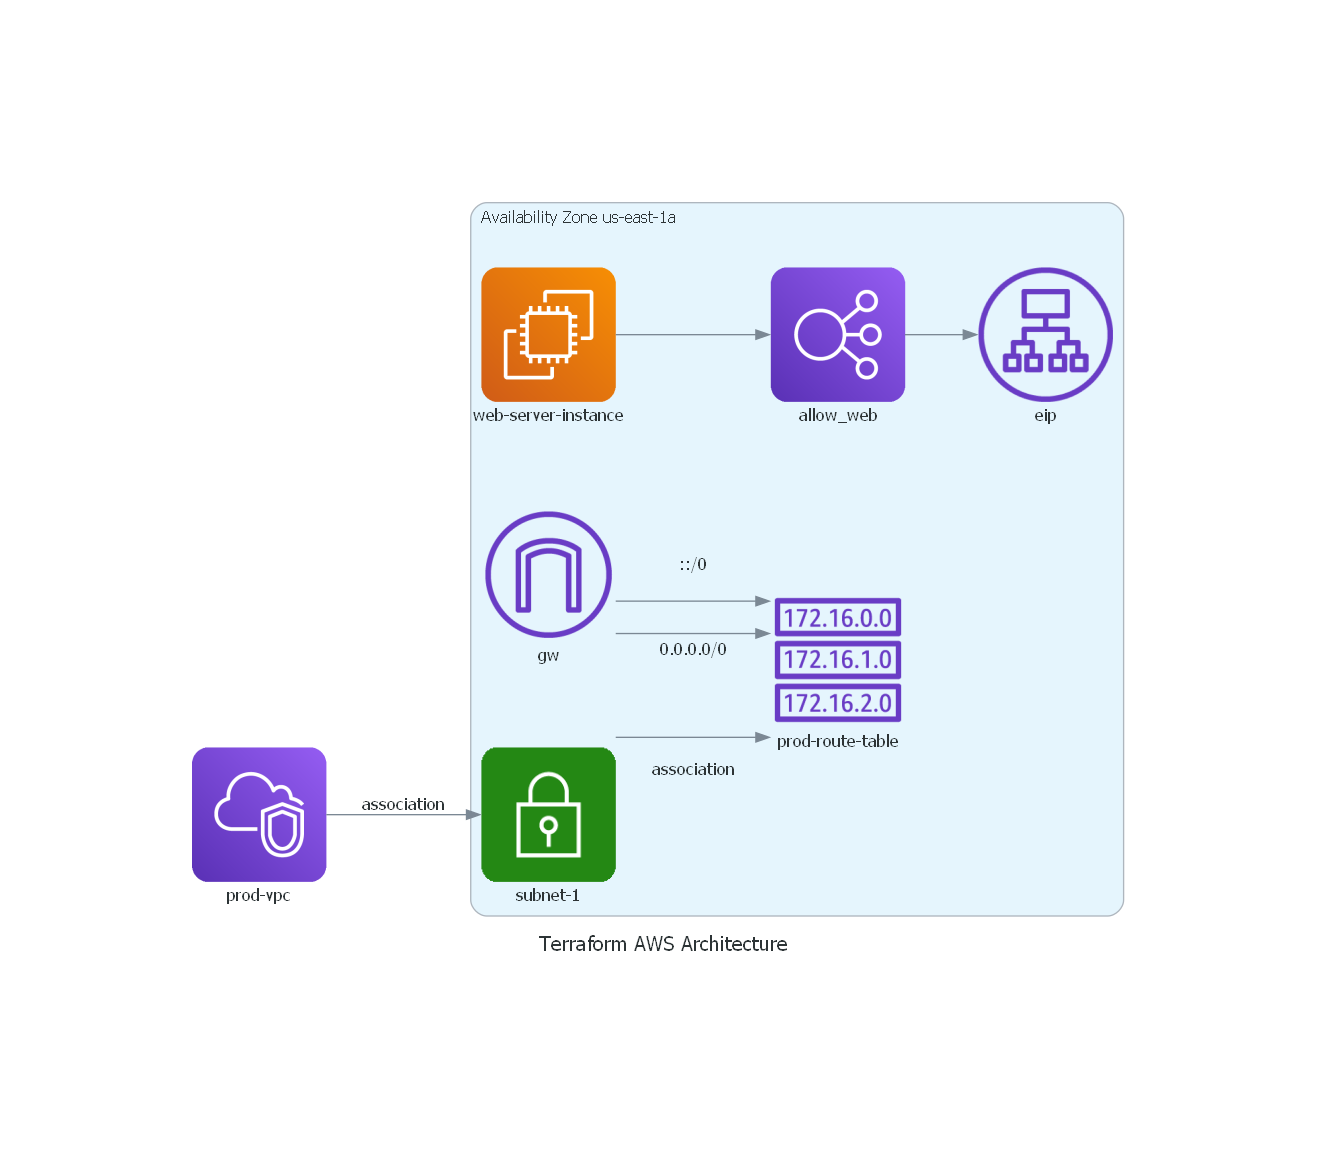
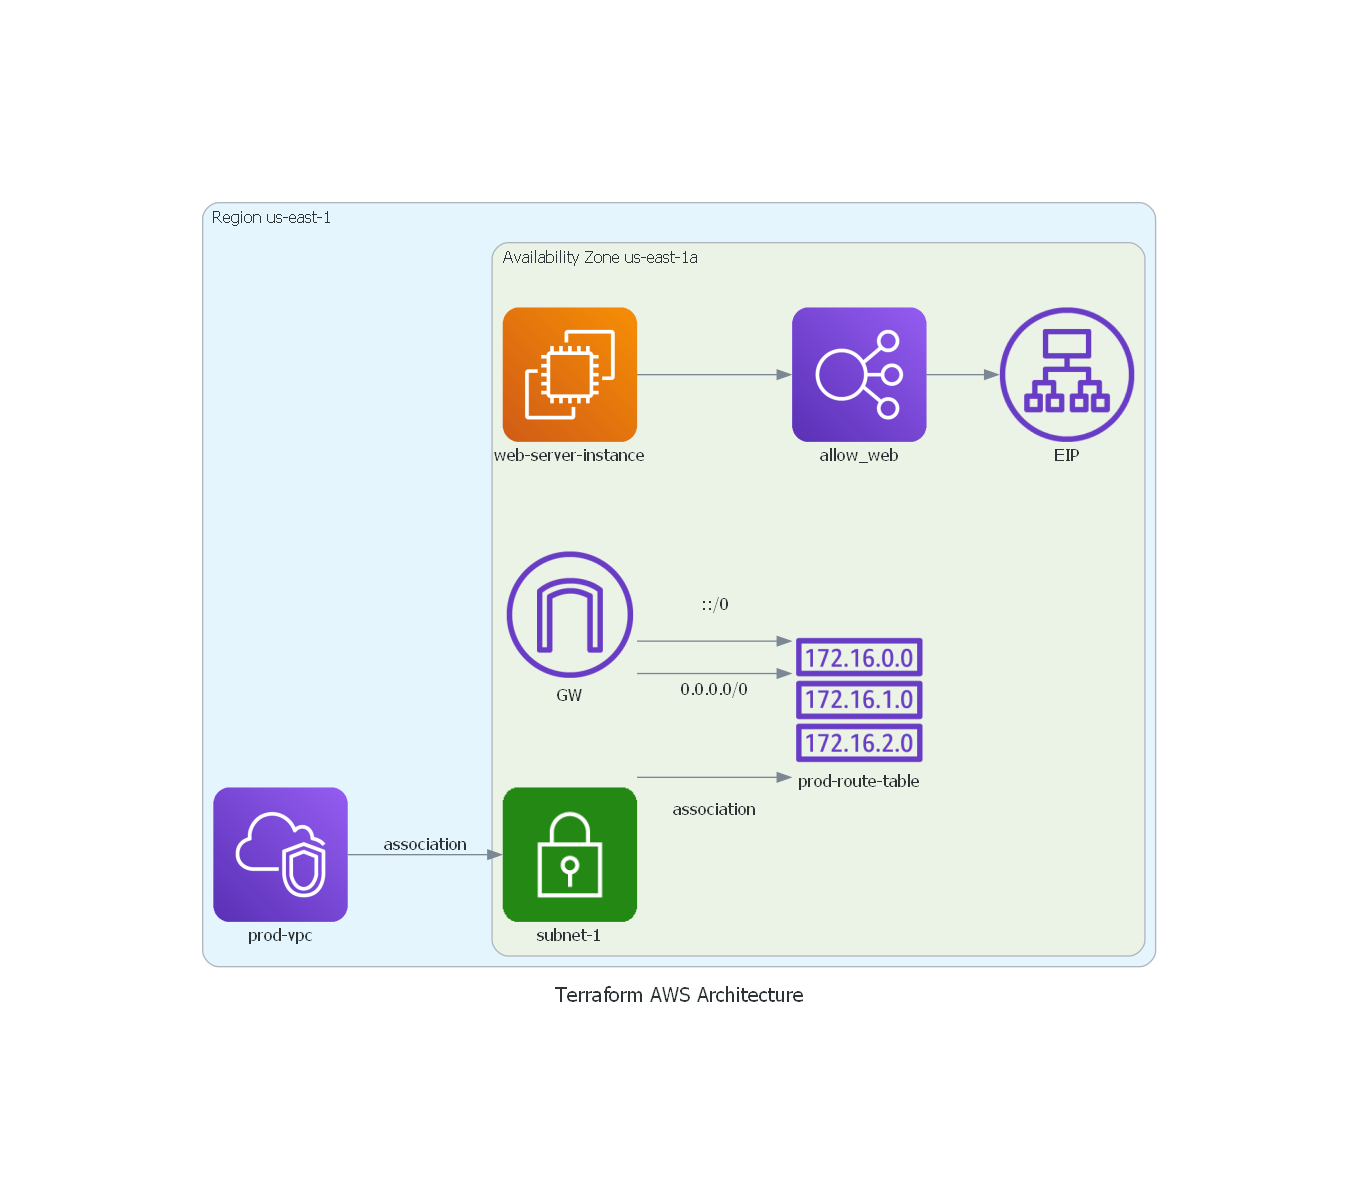
specify vpc region

Changed region(s): [[0.1237, 0.1561, 0.8658, 0.843]]

diff --git a/architecture.py b/architecture.py
@@ -12,16 +12,17 @@ from diagrams.aws.network import (
 from diagrams.aws.management import SystemsManager
 
 with Diagram("Terraform AWS Architecture", show=False, direction="LR"):
-    vpc = VPC("prod-vpc")
 
-    with Cluster("Availability Zone us-east-1a"):
-        subnet = PublicSubnet("subnet-1")
-        igw = InternetGateway("gw")
-        rt = RouteTable("prod-route-table")
-        sg = ELB("allow_web")  # Using ELB as a stand-in for a security group
+    with Cluster("Region us-east-1"):
+        vpc = VPC("prod-vpc")
+        with Cluster("Availability Zone us-east-1a"):
+            subnet = PublicSubnet("subnet-1")
+            igw = InternetGateway("GW")
+            rt = RouteTable("prod-route-table")
+            sg = ELB("allow_web")  # Using ELB as a stand-in for a security group
 
-        instance = EC2("web-server-instance")
-        eip = ALB("eip")  # Using ALB as a placeholder for Elastic IP
+            instance = EC2("web-server-instance")
+            eip = ALB("EIP")  # Using ALB as a placeholder for Elastic IP
 
     vpc >> Edge(label="association") >> subnet
     igw >> Edge(label="0.0.0.0/0") >> rt
